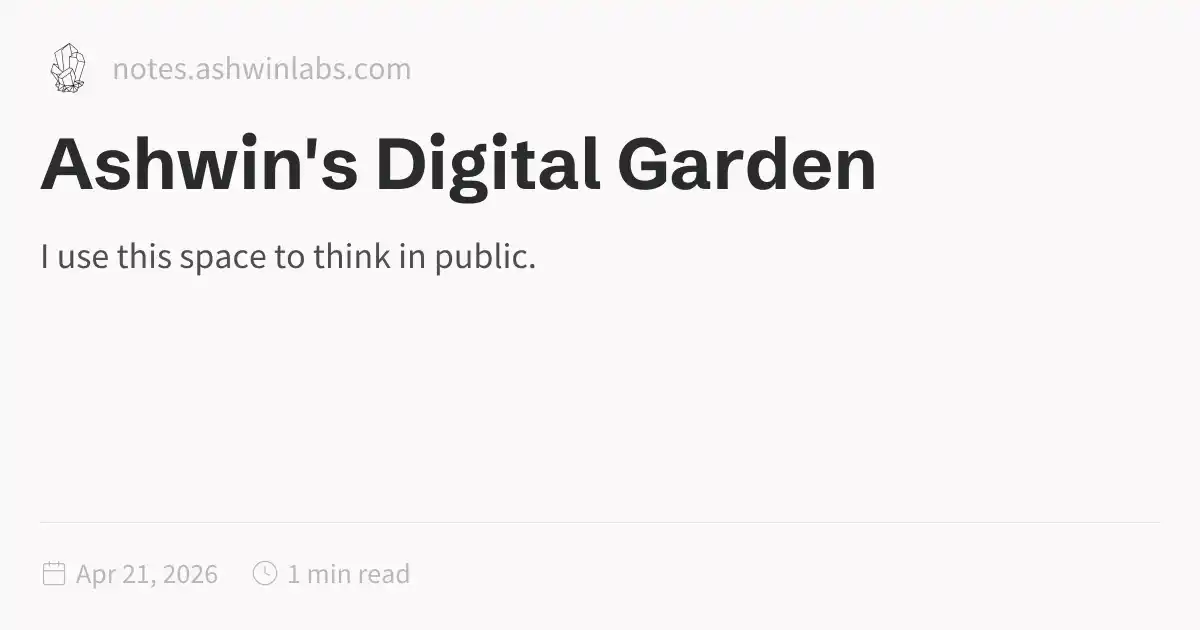
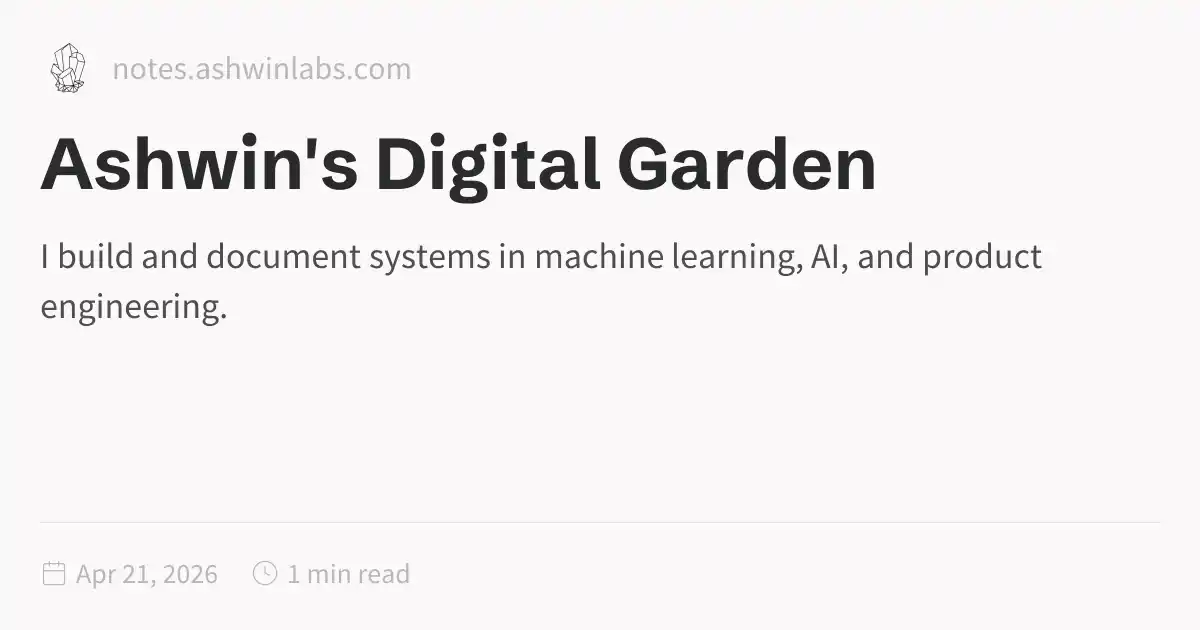
Publish update - 2026-04-21 22:27:26

Changed region(s): [[0.0308, 0.3921, 0.8633, 0.5127]]

diff --git a/public/index.html b/public/index.html
@@ -1,5 +1,5 @@
 <!DOCTYPE html>
-<html lang="en" dir="ltr"><head><title>Ashwin's Digital Garden</title><meta charset="utf-8"/><link rel="preconnect" href="https://fonts.googleapis.com"/><link rel="preconnect" href="https://fonts.gstatic.com"/><link rel="stylesheet" href="https://fonts.googleapis.com/css2?family=Schibsted Grotesk:wght@400;700&amp;family=Source Sans Pro:ital,wght@0,400;0,600;1,400;1,600&amp;family=IBM Plex Mono:wght@400;600&amp;display=swap"/><link rel="preconnect" href="https://cdnjs.cloudflare.com" crossorigin="anonymous"/><meta name="viewport" content="width=device-width, initial-scale=1.0"/><meta name="og:site_name" content="Ashwin Labs Notes"/><meta property="og:title" content="Ashwin's Digital Garden"/><meta property="og:type" content="website"/><meta name="twitter:card" content="summary_large_image"/><meta name="twitter:title" content="Ashwin's Digital Garden"/><meta name="twitter:description" content="I use this space to think in public."/><meta property="og:description" content="I use this space to think in public."/><meta property="og:image:alt" content="I use this space to think in public."/><meta property="twitter:domain" content="notes.ashwinlabs.com"/><meta property="og:url" content="https://notes.ashwinlabs.com/index"/><meta property="twitter:url" content="https://notes.ashwinlabs.com/index"/><link rel="icon" href="./static/icon.png"/><meta name="description" content="I use this space to think in public."/><meta name="generator" content="Quartz"/><link href="./index.css" rel="stylesheet" type="text/css" data-persist="true"/><style>.expand-button {
+<html lang="en" dir="ltr"><head><title>Ashwin's Digital Garden</title><meta charset="utf-8"/><link rel="preconnect" href="https://fonts.googleapis.com"/><link rel="preconnect" href="https://fonts.gstatic.com"/><link rel="stylesheet" href="https://fonts.googleapis.com/css2?family=Schibsted Grotesk:wght@400;700&amp;family=Source Sans Pro:ital,wght@0,400;0,600;1,400;1,600&amp;family=IBM Plex Mono:wght@400;600&amp;display=swap"/><link rel="preconnect" href="https://cdnjs.cloudflare.com" crossorigin="anonymous"/><meta name="viewport" content="width=device-width, initial-scale=1.0"/><meta name="og:site_name" content="Ashwin Labs Notes"/><meta property="og:title" content="Ashwin's Digital Garden"/><meta property="og:type" content="website"/><meta name="twitter:card" content="summary_large_image"/><meta name="twitter:title" content="Ashwin's Digital Garden"/><meta name="twitter:description" content="I build and document systems in machine learning, AI, and product engineering."/><meta property="og:description" content="I build and document systems in machine learning, AI, and product engineering."/><meta property="og:image:alt" content="I build and document systems in machine learning, AI, and product engineering."/><meta property="twitter:domain" content="notes.ashwinlabs.com"/><meta property="og:url" content="https://notes.ashwinlabs.com/index"/><meta property="twitter:url" content="https://notes.ashwinlabs.com/index"/><link rel="icon" href="./static/icon.png"/><meta name="description" content="I build and document systems in machine learning, AI, and product engineering."/><meta name="generator" content="Quartz"/><link href="./index.css" rel="stylesheet" type="text/css" data-persist="true"/><style>.expand-button {
   position: absolute;
   display: flex;
   float: right;
@@ -115,36 +115,28 @@ pre:hover > .expand-button {
   padding: 0 12px;
   font-size: 14px;
 }
[1 lines of base64/hex data omitted]
-<p>This is where I document what I’m learning, building, and figuring out — mainly in machine learning, AI systems, product thinking, and technical projects.</p>
-<p>Most of what you’ll find here started as rough notes. The useful ones get refined into cheatsheets, deeper explanations, and project writeups.</p>
-<h2 id="what-youll-find-here">What you’ll find here<a role="anchor" aria-hidden="true" tabindex="-1" data-no-popover="true" href="#what-youll-find-here" class="internal"><svg width="18" height="18" viewBox="0 0 24 24" fill="none" stroke="currentColor" stroke-width="2" stroke-linecap="round" stroke-linejoin="round"><path d="M10 13a5 5 0 0 0 7.54.54l3-3a5 5 0 0 0-7.07-7.07l-1.72 1.71"></path><path d="M14 11a5 5 0 0 0-7.54-.54l-3 3a5 5 0 0 0 7.07 7.07l1.71-1.71"></path></svg></a></h2>
-<ul>
-<li><a href="./ML-Notes" class="internal alias" data-slug="ML-Notes">ML Notes</a> — concept notes, intuition-first explanations, and deeper breakdowns</li>
-<li><a href="./Cheatsheets" class="internal" data-slug="Cheatsheets">Cheatsheets</a> — compact references for fast review</li>
-<li><a href="./Projects" class="internal" data-slug="Projects">Projects</a> — builds, experiments, and lessons learned</li>
-<li><a href="./Blog" class="internal" data-slug="Blog">Blog</a> — longer-form essays and reflections</li>
-</ul>
-<h2 id="how-to-read-this-site">How to read this site<a role="anchor" aria-hidden="true" tabindex="-1" data-no-popover="true" href="#how-to-read-this-site" class="internal"><svg width="18" height="18" viewBox="0 0 24 24" fill="none" stroke="currentColor" stroke-width="2" stroke-linecap="round" stroke-linejoin="round"><path d="M10 13a5 5 0 0 0 7.54.54l3-3a5 5 0 0 0-7.07-7.07l-1.72 1.71"></path><path d="M14 11a5 5 0 0 0-7.54-.54l-3 3a5 5 0 0 0 7.07 7.07l1.71-1.71"></path></svg></a></h2>
-<p>This is not a polished blog in the traditional sense.</p>
-<p>It is a working knowledge system:</p>
-<ul>
-<li>ideas evolve</li>
-<li>notes get rewritten</li>
-<li>links between topics grow over time</li>
-</ul>
-<p>If something feels unfinished, that usually means I’m still learning through it.</p>
[1 lines of base64/hex data omitted]
+<p>This site is my working knowledge base — where ideas are tested, refined, and connected.</p>
 <h2 id="featured">Featured<a role="anchor" aria-hidden="true" tabindex="-1" data-no-popover="true" href="#featured" class="internal"><svg width="18" height="18" viewBox="0 0 24 24" fill="none" stroke="currentColor" stroke-width="2" stroke-linecap="round" stroke-linejoin="round"><path d="M10 13a5 5 0 0 0 7.54.54l3-3a5 5 0 0 0-7.07-7.07l-1.72 1.71"></path><path d="M14 11a5 5 0 0 0-7.54-.54l-3 3a5 5 0 0 0 7.07 7.07l1.71-1.71"></path></svg></a></h2>
 <ul>
 <li><a href="./What-10-fold-Stratified-Cross-Validation-Really-Does" class="internal alias" data-slug="What-10-fold-Stratified-Cross-Validation-Really-Does">What 10-fold Stratified Cross-Validation Really Does</a></li>
 <li><a href="./Batch-Normalization-Explained-Simply" class="internal alias" data-slug="Batch-Normalization-Explained-Simply">Batch Normalization Explained Simply</a></li>
 <li><a href="./Projects/cifar10-build-vs-buy" class="internal alias" data-slug="Projects/cifar10-build-vs-buy">CIFAR-10 Image Classification — Build vs Buy</a></li>
 </ul>
-<h2 id="start-here">Start here<a role="anchor" aria-hidden="true" tabindex="-1" data-no-popover="true" href="#start-here" class="internal"><svg width="18" height="18" viewBox="0 0 24 24" fill="none" stroke="currentColor" stroke-width="2" stroke-linecap="round" stroke-linejoin="round"><path d="M10 13a5 5 0 0 0 7.54.54l3-3a5 5 0 0 0-7.07-7.07l-1.72 1.71"></path><path d="M14 11a5 5 0 0 0-7.54-.54l-3 3a5 5 0 0 0 7.07 7.07l1.71-1.71"></path></svg></a></h2>
+<h2 id="core-topics">Core Topics<a role="anchor" aria-hidden="true" tabindex="-1" data-no-popover="true" href="#core-topics" class="internal"><svg width="18" height="18" viewBox="0 0 24 24" fill="none" stroke="currentColor" stroke-width="2" stroke-linecap="round" stroke-linejoin="round"><path d="M10 13a5 5 0 0 0 7.54.54l3-3a5 5 0 0 0-7.07-7.07l-1.72 1.71"></path><path d="M14 11a5 5 0 0 0-7.54-.54l-3 3a5 5 0 0 0 7.07 7.07l1.71-1.71"></path></svg></a></h2>
 <ul>
-<li><a href="./Cheatsheets" class="internal" data-slug="Cheatsheets">Cheatsheets</a></li>
-<li><a href="./Projects" class="internal" data-slug="Projects">Projects</a></li>
-<li><a href="./About" class="internal" data-slug="About">About</a></li>
-</ul></article><hr/><div class="page-footer"></div></div><div class="right sidebar"><div class="toc desktop-only"><button type="button" class="toc-header" aria-controls="toc-1" aria-expanded="true"><h3>Table of Contents</h3><svg xmlns="http://www.w3.org/2000/svg" width="24" height="24" viewBox="0 0 24 24" fill="none" stroke="currentColor" stroke-width="2" stroke-linecap="round" stroke-linejoin="round" class="fold"><polyline points="6 9 12 15 18 9"></polyline></svg></button><ul id="list-1" class="toc-content overflow"><li class="depth-0"><a href="#what-youll-find-here" data-for="what-youll-find-here">What you’ll find here</a></li><li class="depth-0"><a href="#how-to-read-this-site" data-for="how-to-read-this-site">How to read this site</a></li><li class="depth-0"><a href="#featured" data-for="featured">Featured</a></li><li class="depth-0"><a href="#start-here" data-for="start-here">Start here</a></li><li class="overflow-end"></li></ul></div></div><footer class><p>Created with <a href="https://quartz.jzhao.xyz/">Quartz v4.5.2</a> © 2026</p><ul><li><a href="/">Home</a></li><li><a href="/About">About</a></li><li><a href="https://github.com/ashlabs">Github</a></li><li><a href="https://www.linkedin.com/in/ashpar/">LinkedIn</a></li></ul></footer></div></div></body><script type="application/javascript" data-persist="true">function n(){let t=this.parentElement;t.classList.toggle("is-collapsed");let e=t.getElementsByClassName("callout-content")[0];if(!e)return;let l=t.classList.contains("is-collapsed");e.style.gridTemplateRows=l?"0fr":"1fr"}function c(){let t=document.getElementsByClassName("callout is-collapsible");for(let e of t){let l=e.getElementsByClassName("callout-title")[0],s=e.getElementsByClassName("callout-content")[0];if(!l||!s)continue;l.addEventListener("click",n),window.addCleanup(()=>l.removeEventListener("click",n));let o=e.classList.contains("is-collapsed");s.style.gridTemplateRows=o?"0fr":"1fr"}}document.addEventListener("nav",c);
+<li><a href="./ML-Notes" class="internal alias" data-slug="ML-Notes">Machine Learning Concepts</a></li>
+<li><a href="./Cheatsheets" class="internal alias" data-slug="Cheatsheets">Quick Reference Cheatsheets</a></li>
+<li><a href="./Projects" class="internal alias" data-slug="Projects">Projects &amp; Experiments</a></li>
+<li><a href="./Blog" class="internal alias" data-slug="Blog">Long-form Writing</a></li>
+</ul>
+<h2 id="how-to-use-this-site">How to use this site<a role="anchor" aria-hidden="true" tabindex="-1" data-no-popover="true" href="#how-to-use-this-site" class="internal"><svg width="18" height="18" viewBox="0 0 24 24" fill="none" stroke="currentColor" stroke-width="2" stroke-linecap="round" stroke-linejoin="round"><path d="M10 13a5 5 0 0 0 7.54.54l3-3a5 5 0 0 0-7.07-7.07l-1.72 1.71"></path><path d="M14 11a5 5 0 0 0-7.54-.54l-3 3a5 5 0 0 0 7.07 7.07l1.71-1.71"></path></svg></a></h2>
+<ul>
+<li>Start with a featured project to see how I approach problems</li>
+<li>Use cheatsheets for quick recall</li>
+<li>Explore notes for deeper understanding</li>
+</ul>
+<hr/>
+<p>I learn by building, testing, and explaining — this site reflects that process.</p></article><hr/><div class="page-footer"></div></div><div class="right sidebar"><div class="toc desktop-only"><button type="button" class="toc-header" aria-controls="toc-1" aria-expanded="true"><h3>Table of Contents</h3><svg xmlns="http://www.w3.org/2000/svg" width="24" height="24" viewBox="0 0 24 24" fill="none" stroke="currentColor" stroke-width="2" stroke-linecap="round" stroke-linejoin="round" class="fold"><polyline points="6 9 12 15 18 9"></polyline></svg></button><ul id="list-1" class="toc-content overflow"><li class="depth-0"><a href="#featured" data-for="featured">Featured</a></li><li class="depth-0"><a href="#core-topics" data-for="core-topics">Core Topics</a></li><li class="depth-0"><a href="#how-to-use-this-site" data-for="how-to-use-this-site">How to use this site</a></li><li class="overflow-end"></li></ul></div></div><footer class><p>Created with <a href="https://quartz.jzhao.xyz/">Quartz v4.5.2</a> © 2026</p><ul><li><a href="/">Home</a></li><li><a href="/About">About</a></li><li><a href="https://github.com/ashlabs">Github</a></li><li><a href="https://www.linkedin.com/in/ashpar/">LinkedIn</a></li></ul></footer></div></div></body><script type="application/javascript" data-persist="true">function n(){let t=this.parentElement;t.classList.toggle("is-collapsed");let e=t.getElementsByClassName("callout-content")[0];if(!e)return;let l=t.classList.contains("is-collapsed");e.style.gridTemplateRows=l?"0fr":"1fr"}function c(){let t=document.getElementsByClassName("callout is-collapsible");for(let e of t){let l=e.getElementsByClassName("callout-title")[0],s=e.getElementsByClassName("callout-content")[0];if(!l||!s)continue;l.addEventListener("click",n),window.addCleanup(()=>l.removeEventListener("click",n));let o=e.classList.contains("is-collapsed");s.style.gridTemplateRows=o?"0fr":"1fr"}}document.addEventListener("nav",c);
 </script><script type="module" data-persist="true">function E(a,e){if(!a)return;function t(o){o.target===this&&(o.preventDefault(),o.stopPropagation(),e())}function n(o){o.key.startsWith("Esc")&&(o.preventDefault(),e())}a?.addEventListener("click",t),window.addCleanup(()=>a?.removeEventListener("click",t)),document.addEventListener("keydown",n),window.addCleanup(()=>document.removeEventListener("keydown",n))}function f(a){for(;a.firstChild;)a.removeChild(a.firstChild)}var m=class{constructor(e,t){this.container=e;this.content=t;this.setupEventListeners(),this.setupNavigationControls(),this.resetTransform()}isDragging=!1;startPan={x:0,y:0};currentPan={x:0,y:0};scale=1;MIN_SCALE=.5;MAX_SCALE=3;cleanups=[];setupEventListeners(){let e=this.onMouseDown.bind(this),t=this.onMouseMove.bind(this),n=this.onMouseUp.bind(this),o=this.onTouchStart.bind(this),r=this.onTouchMove.bind(this),i=this.onTouchEnd.bind(this),s=this.resetTransform.bind(this);this.container.addEventListener("mousedown",e),document.addEventListener("mousemove",t),document.addEventListener("mouseup",n),this.container.addEventListener("touchstart",o,{passive:!1}),document.addEventListener("touchmove",r,{passive:!1}),document.addEventListener("touchend",i),window.addEventListener("resize",s),this.cleanups.push(()=>this.container.removeEventListener("mousedown",e),()=>document.removeEventListener("mousemove",t),()=>document.removeEventListener("mouseup",n),()=>this.container.removeEventListener("touchstart",o),()=>document.removeEventListener("touchmove",r),()=>document.removeEventListener("touchend",i),()=>window.removeEventListener("resize",s))}cleanup(){for(let e of this.cleanups)e()}setupNavigationControls(){let e=document.createElement("div");e.className="mermaid-controls";let t=this.createButton("+",()=>this.zoom(.1)),n=this.createButton("-",()=>this.zoom(-.1)),o=this.createButton("Reset",()=>this.resetTransform());e.appendChild(n),e.appendChild(o),e.appendChild(t),this.container.appendChild(e)}createButton(e,t){let n=document.createElement("button");return n.textContent=e,n.className="mermaid-control-button",n.addEventListener("click",t),window.addCleanup(()=>n.removeEventListener("click",t)),n}onMouseDown(e){e.button===0&&(this.isDragging=!0,this.startPan={x:e.clientX-this.currentPan.x,y:e.clientY-this.currentPan.y},this.container.style.cursor="grabbing")}onMouseMove(e){this.isDragging&&(e.preventDefault(),this.currentPan={x:e.clientX-this.startPan.x,y:e.clientY-this.startPan.y},this.updateTransform())}onMouseUp(){this.isDragging=!1,this.container.style.cursor="grab"}onTouchStart(e){if(e.touches.length!==1)return;this.isDragging=!0;let t=e.touches[0];this.startPan={x:t.clientX-this.currentPan.x,y:t.clientY-this.currentPan.y}}onTouchMove(e){if(!this.isDragging||e.touches.length!==1)return;e.preventDefault();let t=e.touches[0];this.currentPan={x:t.clientX-this.startPan.x,y:t.clientY-this.startPan.y},this.updateTransform()}onTouchEnd(){this.isDragging=!1}zoom(e){let t=Math.min(Math.max(this.scale+e,this.MIN_SCALE),this.MAX_SCALE),n=this.content.getBoundingClientRect(),o=n.width/2,r=n.height/2,i=t-this.scale;this.currentPan.x-=o*i,this.currentPan.y-=r*i,this.scale=t,this.updateTransform()}updateTransform(){this.content.style.transform=`translate(${this.currentPan.x}px, ${this.currentPan.y}px) scale(${this.scale})`}resetTransform(){let t=this.content.querySelector("svg").getBoundingClientRect(),n=t.width/this.scale,o=t.height/this.scale;this.scale=1,this.currentPan={x:(this.container.clientWidth-n)/2,y:(this.container.clientHeight-o)/2},this.updateTransform()}},T=["--secondary","--tertiary","--gray","--light","--lightgray","--highlight","--dark","--darkgray","--codeFont"],y;document.addEventListener("nav",async()=>{let e=document.querySelector(".center").querySelectorAll("code.mermaid");if(e.length===0)return;y||=await import("https://cdnjs.cloudflare.com/ajax/libs/mermaid/11.4.0/mermaid.esm.min.mjs");let t=y.default,n=new WeakMap;for(let r of e)n.set(r,r.innerText);async function o(){for(let s of e){s.removeAttribute("data-processed");let c=n.get(s);c&&(s.innerHTML=c)}let r=T.reduce((s,c)=>(s[c]=window.getComputedStyle(document.documentElement).getPropertyValue(c),s),{}),i=document.documentElement.getAttribute("saved-theme")==="dark";t.initialize({startOnLoad:!1,securityLevel:"loose",theme:i?"dark":"base",themeVariables:{fontFamily:r["--codeFont"],primaryColor:r["--light"],primaryTextColor:r["--darkgray"],primaryBorderColor:r["--tertiary"],lineColor:r["--darkgray"],secondaryColor:r["--secondary"],tertiaryColor:r["--tertiary"],clusterBkg:r["--light"],edgeLabelBackground:r["--highlight"]}}),await t.run({nodes:e})}await o(),document.addEventListener("themechange",o),window.addCleanup(()=>document.removeEventListener("themechange",o));for(let r=0;r<e.length;r++){let v=function(){let g=l.querySelector("#mermaid-space"),h=l.querySelector(".mermaid-content");if(!h)return;f(h);let w=i.querySelector("svg").cloneNode(!0);h.appendChild(w),l.classList.add("active"),g.style.cursor="grab",u=new m(g,h)},M=function(){l.classList.remove("active"),u?.cleanup(),u=null},i=e[r],s=i.parentElement,c=s.querySelector(".clipboard-button"),d=s.querySelector(".expand-button"),p=window.getComputedStyle(c),L=c.offsetWidth+parseFloat(p.marginLeft||"0")+parseFloat(p.marginRight||"0");d.style.right=`calc(${L}px + 0.3rem)`,s.prepend(d);let l=s.querySelector("#mermaid-container");if(!l)return;let u=null;d.addEventListener("click",v),E(l,M),window.addCleanup(()=>{u?.cleanup(),d.removeEventListener("click",v)})}});
 </script><script src="https://cdn.jsdelivr.net/npm/katex@0.16.11/dist/contrib/copy-tex.min.js" type="application/javascript" data-persist="true"></script><script src="./postscript.js" type="module" data-persist="true"></script></html>

diff --git a/public/Projects/index.html b/public/Projects/index.html
@@ -116,6 +116,6 @@ pre:hover > .expand-button {
   font-size: 14px;
 }
[1 lines of base64/hex data omitted]
-<p>This is where ideas get tested against reality.</p></article><div class="page-listing"><p>1 item under this folder.</p><div><ul class="section-ul"><li class="section-li"><div class="section"><p class="meta"><time datetime="2026-04-22T05:12:31.293Z">Apr 21, 2026</time></p><div class="desc"><h3><a href="../Projects/cifar10-build-vs-buy" class="internal">CIFAR-10 Image Classification — Build vs Buy</a></h3></div><ul class="tags"></ul></div></li></ul></div></div></div><hr/><div class="page-footer"></div></div><div class="right sidebar"></div><footer class><p>Created with <a href="https://quartz.jzhao.xyz/">Quartz v4.5.2</a> © 2026</p><ul><li><a href="/">Home</a></li><li><a href="/About">About</a></li><li><a href="https://github.com/ashlabs">Github</a></li><li><a href="https://www.linkedin.com/in/ashpar/">LinkedIn</a></li></ul></footer></div></div></body><script type="application/javascript" data-persist="true">function n(){let t=this.parentElement;t.classList.toggle("is-collapsed");let e=t.getElementsByClassName("callout-content")[0];if(!e)return;let l=t.classList.contains("is-collapsed");e.style.gridTemplateRows=l?"0fr":"1fr"}function c(){let t=document.getElementsByClassName("callout is-collapsible");for(let e of t){let l=e.getElementsByClassName("callout-title")[0],s=e.getElementsByClassName("callout-content")[0];if(!l||!s)continue;l.addEventListener("click",n),window.addCleanup(()=>l.removeEventListener("click",n));let o=e.classList.contains("is-collapsed");s.style.gridTemplateRows=o?"0fr":"1fr"}}document.addEventListener("nav",c);
+<p>This is where ideas get tested against reality.</p></article><div class="page-listing"><p>1 item under this folder.</p><div><ul class="section-ul"><li class="section-li"><div class="section"><p class="meta"><time datetime="2026-04-22T05:13:32.000Z">Apr 21, 2026</time></p><div class="desc"><h3><a href="../Projects/cifar10-build-vs-buy" class="internal">CIFAR-10 Image Classification — Build vs Buy</a></h3></div><ul class="tags"></ul></div></li></ul></div></div></div><hr/><div class="page-footer"></div></div><div class="right sidebar"></div><footer class><p>Created with <a href="https://quartz.jzhao.xyz/">Quartz v4.5.2</a> © 2026</p><ul><li><a href="/">Home</a></li><li><a href="/About">About</a></li><li><a href="https://github.com/ashlabs">Github</a></li><li><a href="https://www.linkedin.com/in/ashpar/">LinkedIn</a></li></ul></footer></div></div></body><script type="application/javascript" data-persist="true">function n(){let t=this.parentElement;t.classList.toggle("is-collapsed");let e=t.getElementsByClassName("callout-content")[0];if(!e)return;let l=t.classList.contains("is-collapsed");e.style.gridTemplateRows=l?"0fr":"1fr"}function c(){let t=document.getElementsByClassName("callout is-collapsible");for(let e of t){let l=e.getElementsByClassName("callout-title")[0],s=e.getElementsByClassName("callout-content")[0];if(!l||!s)continue;l.addEventListener("click",n),window.addCleanup(()=>l.removeEventListener("click",n));let o=e.classList.contains("is-collapsed");s.style.gridTemplateRows=o?"0fr":"1fr"}}document.addEventListener("nav",c);
 </script><script type="module" data-persist="true">function E(a,e){if(!a)return;function t(o){o.target===this&&(o.preventDefault(),o.stopPropagation(),e())}function n(o){o.key.startsWith("Esc")&&(o.preventDefault(),e())}a?.addEventListener("click",t),window.addCleanup(()=>a?.removeEventListener("click",t)),document.addEventListener("keydown",n),window.addCleanup(()=>document.removeEventListener("keydown",n))}function f(a){for(;a.firstChild;)a.removeChild(a.firstChild)}var m=class{constructor(e,t){this.container=e;this.content=t;this.setupEventListeners(),this.setupNavigationControls(),this.resetTransform()}isDragging=!1;startPan={x:0,y:0};currentPan={x:0,y:0};scale=1;MIN_SCALE=.5;MAX_SCALE=3;cleanups=[];setupEventListeners(){let e=this.onMouseDown.bind(this),t=this.onMouseMove.bind(this),n=this.onMouseUp.bind(this),o=this.onTouchStart.bind(this),r=this.onTouchMove.bind(this),i=this.onTouchEnd.bind(this),s=this.resetTransform.bind(this);this.container.addEventListener("mousedown",e),document.addEventListener("mousemove",t),document.addEventListener("mouseup",n),this.container.addEventListener("touchstart",o,{passive:!1}),document.addEventListener("touchmove",r,{passive:!1}),document.addEventListener("touchend",i),window.addEventListener("resize",s),this.cleanups.push(()=>this.container.removeEventListener("mousedown",e),()=>document.removeEventListener("mousemove",t),()=>document.removeEventListener("mouseup",n),()=>this.container.removeEventListener("touchstart",o),()=>document.removeEventListener("touchmove",r),()=>document.removeEventListener("touchend",i),()=>window.removeEventListener("resize",s))}cleanup(){for(let e of this.cleanups)e()}setupNavigationControls(){let e=document.createElement("div");e.className="mermaid-controls";let t=this.createButton("+",()=>this.zoom(.1)),n=this.createButton("-",()=>this.zoom(-.1)),o=this.createButton("Reset",()=>this.resetTransform());e.appendChild(n),e.appendChild(o),e.appendChild(t),this.container.appendChild(e)}createButton(e,t){let n=document.createElement("button");return n.textContent=e,n.className="mermaid-control-button",n.addEventListener("click",t),window.addCleanup(()=>n.removeEventListener("click",t)),n}onMouseDown(e){e.button===0&&(this.isDragging=!0,this.startPan={x:e.clientX-this.currentPan.x,y:e.clientY-this.currentPan.y},this.container.style.cursor="grabbing")}onMouseMove(e){this.isDragging&&(e.preventDefault(),this.currentPan={x:e.clientX-this.startPan.x,y:e.clientY-this.startPan.y},this.updateTransform())}onMouseUp(){this.isDragging=!1,this.container.style.cursor="grab"}onTouchStart(e){if(e.touches.length!==1)return;this.isDragging=!0;let t=e.touches[0];this.startPan={x:t.clientX-this.currentPan.x,y:t.clientY-this.currentPan.y}}onTouchMove(e){if(!this.isDragging||e.touches.length!==1)return;e.preventDefault();let t=e.touches[0];this.currentPan={x:t.clientX-this.startPan.x,y:t.clientY-this.startPan.y},this.updateTransform()}onTouchEnd(){this.isDragging=!1}zoom(e){let t=Math.min(Math.max(this.scale+e,this.MIN_SCALE),this.MAX_SCALE),n=this.content.getBoundingClientRect(),o=n.width/2,r=n.height/2,i=t-this.scale;this.currentPan.x-=o*i,this.currentPan.y-=r*i,this.scale=t,this.updateTransform()}updateTransform(){this.content.style.transform=`translate(${this.currentPan.x}px, ${this.currentPan.y}px) scale(${this.scale})`}resetTransform(){let t=this.content.querySelector("svg").getBoundingClientRect(),n=t.width/this.scale,o=t.height/this.scale;this.scale=1,this.currentPan={x:(this.container.clientWidth-n)/2,y:(this.container.clientHeight-o)/2},this.updateTransform()}},T=["--secondary","--tertiary","--gray","--light","--lightgray","--highlight","--dark","--darkgray","--codeFont"],y;document.addEventListener("nav",async()=>{let e=document.querySelector(".center").querySelectorAll("code.mermaid");if(e.length===0)return;y||=await import("https://cdnjs.cloudflare.com/ajax/libs/mermaid/11.4.0/mermaid.esm.min.mjs");let t=y.default,n=new WeakMap;for(let r of e)n.set(r,r.innerText);async function o(){for(let s of e){s.removeAttribute("data-processed");let c=n.get(s);c&&(s.innerHTML=c)}let r=T.reduce((s,c)=>(s[c]=window.getComputedStyle(document.documentElement).getPropertyValue(c),s),{}),i=document.documentElement.getAttribute("saved-theme")==="dark";t.initialize({startOnLoad:!1,securityLevel:"loose",theme:i?"dark":"base",themeVariables:{fontFamily:r["--codeFont"],primaryColor:r["--light"],primaryTextColor:r["--darkgray"],primaryBorderColor:r["--tertiary"],lineColor:r["--darkgray"],secondaryColor:r["--secondary"],tertiaryColor:r["--tertiary"],clusterBkg:r["--light"],edgeLabelBackground:r["--highlight"]}}),await t.run({nodes:e})}await o(),document.addEventListener("themechange",o),window.addCleanup(()=>document.removeEventListener("themechange",o));for(let r=0;r<e.length;r++){let v=function(){let g=l.querySelector("#mermaid-space"),h=l.querySelector(".mermaid-content");if(!h)return;f(h);let w=i.querySelector("svg").cloneNode(!0);h.appendChild(w),l.classList.add("active"),g.style.cursor="grab",u=new m(g,h)},M=function(){l.classList.remove("active"),u?.cleanup(),u=null},i=e[r],s=i.parentElement,c=s.querySelector(".clipboard-button"),d=s.querySelector(".expand-button"),p=window.getComputedStyle(c),L=c.offsetWidth+parseFloat(p.marginLeft||"0")+parseFloat(p.marginRight||"0");d.style.right=`calc(${L}px + 0.3rem)`,s.prepend(d);let l=s.querySelector("#mermaid-container");if(!l)return;let u=null;d.addEventListener("click",v),E(l,M),window.addCleanup(()=>{u?.cleanup(),d.removeEventListener("click",v)})}});
 </script><script src="https://cdn.jsdelivr.net/npm/katex@0.16.11/dist/contrib/copy-tex.min.js" type="application/javascript" data-persist="true"></script><script src="../postscript.js" type="module" data-persist="true"></script></html>

diff --git a/content/index.md b/content/index.md
@@ -2,37 +2,26 @@
 title: Ashwin's Digital Garden
 ---
 
-I use this space to think in public.
+I build and document systems in machine learning, AI, and product engineering.
 
-This is where I document what I’m learning, building, and figuring out — mainly in machine learning, AI systems, product thinking, and technical projects.
-
-Most of what you’ll find here started as rough notes. The useful ones get refined into cheatsheets, deeper explanations, and project writeups.
-
-## What you’ll find here
-
-- [[ML Notes]] — concept notes, intuition-first explanations, and deeper breakdowns
-- [[Cheatsheets]] — compact references for fast review
-- [[Projects]] — builds, experiments, and lessons learned
-- [[Blog]] — longer-form essays and reflections
-
-## How to read this site
-
-This is not a polished blog in the traditional sense.
-
-It is a working knowledge system:
-- ideas evolve
-- notes get rewritten
-- links between topics grow over time
-
-If something feels unfinished, that usually means I’m still learning through it.
+This site is my working knowledge base — where ideas are tested, refined, and connected.
 
 ## Featured
 - [[What 10-fold Stratified Cross-Validation Really Does]]
 - [[Batch Normalization Explained Simply]]
 - [[Projects/cifar10-build-vs-buy|CIFAR-10 Image Classification — Build vs Buy]]
 
-## Start here
+## Core Topics
+- [[ML Notes|Machine Learning Concepts]]
+- [[Cheatsheets|Quick Reference Cheatsheets]]
+- [[Projects|Projects & Experiments]]
+- [[Blog|Long-form Writing]]
 
-- [[Cheatsheets]]
-- [[Projects]]
-- [[About]]
+## How to use this site
+- Start with a featured project to see how I approach problems  
+- Use cheatsheets for quick recall  
+- Explore notes for deeper understanding  
+
+---
+
+I learn by building, testing, and explaining — this site reflects that process.
